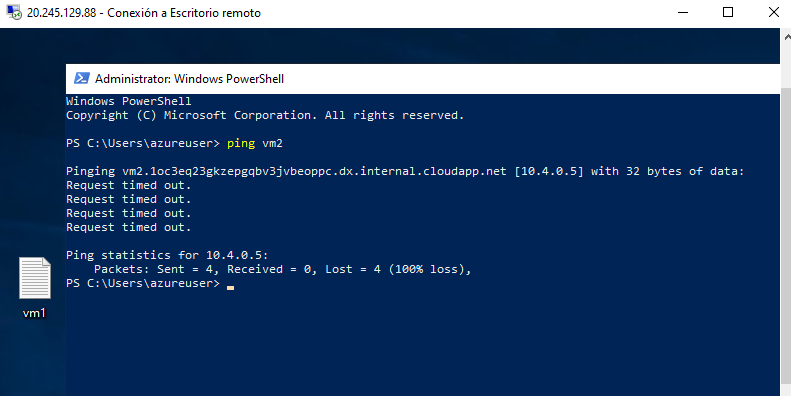
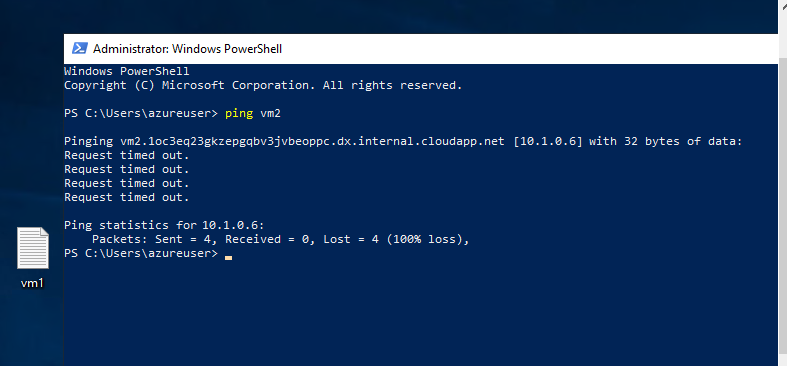
Actualización máquinas virtuales e imagenes

Changed region(s): [[0.0, 0.0, 1.0, 1.0]]

diff --git a/README.md b/README.md
@@ -55,7 +55,14 @@ Escribimos el siguiente comando:
 
 *New-NetFirewallRule –DisplayName “Allow ICMPv4-In” –Protocol ICMPv4*
 
-![](img\img6.png)
-
 Podemos comprobar que la regla se ha ejecutado con éxito. Ahora comprobaremos la conexión haciendo ping entre las máquinas:
 
+La Vm1 a la Vm2: 
+
+![](img/img7.png)
+
+
+
+La Vm2 a la Vm1:
+
+![](img/img8.png)
